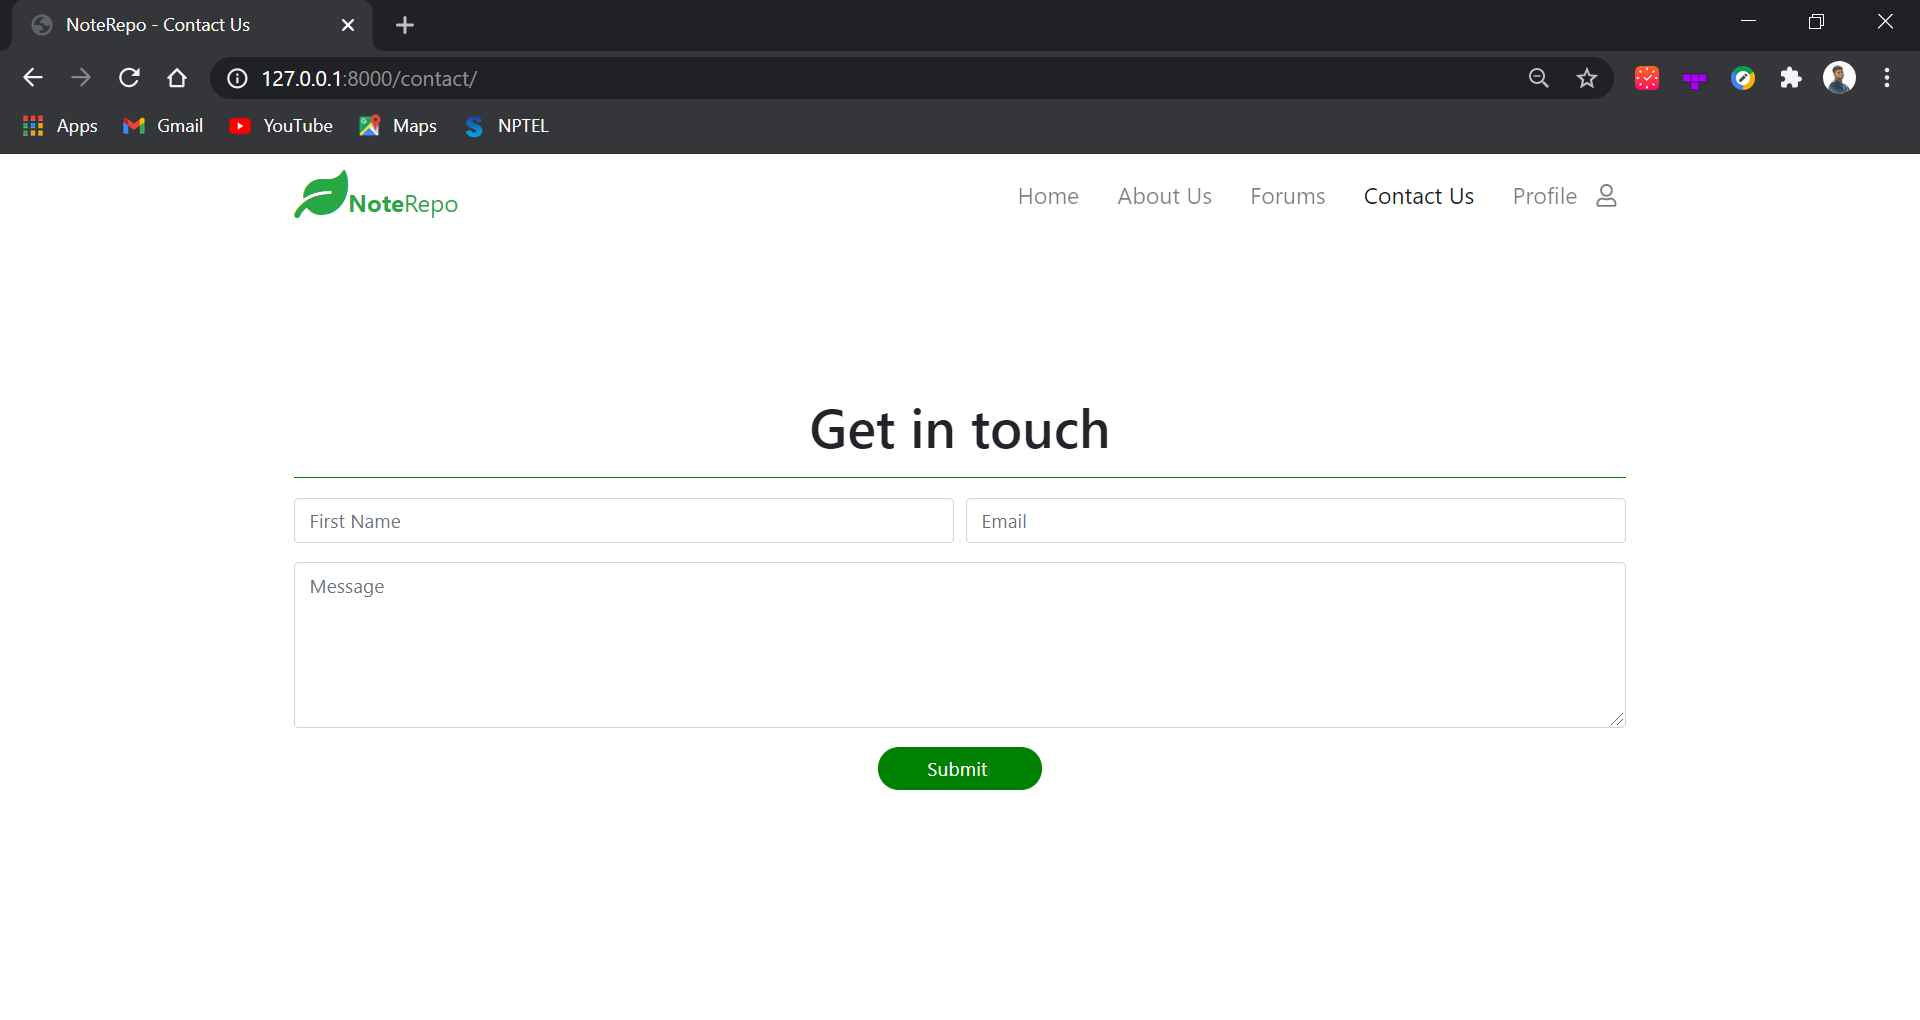
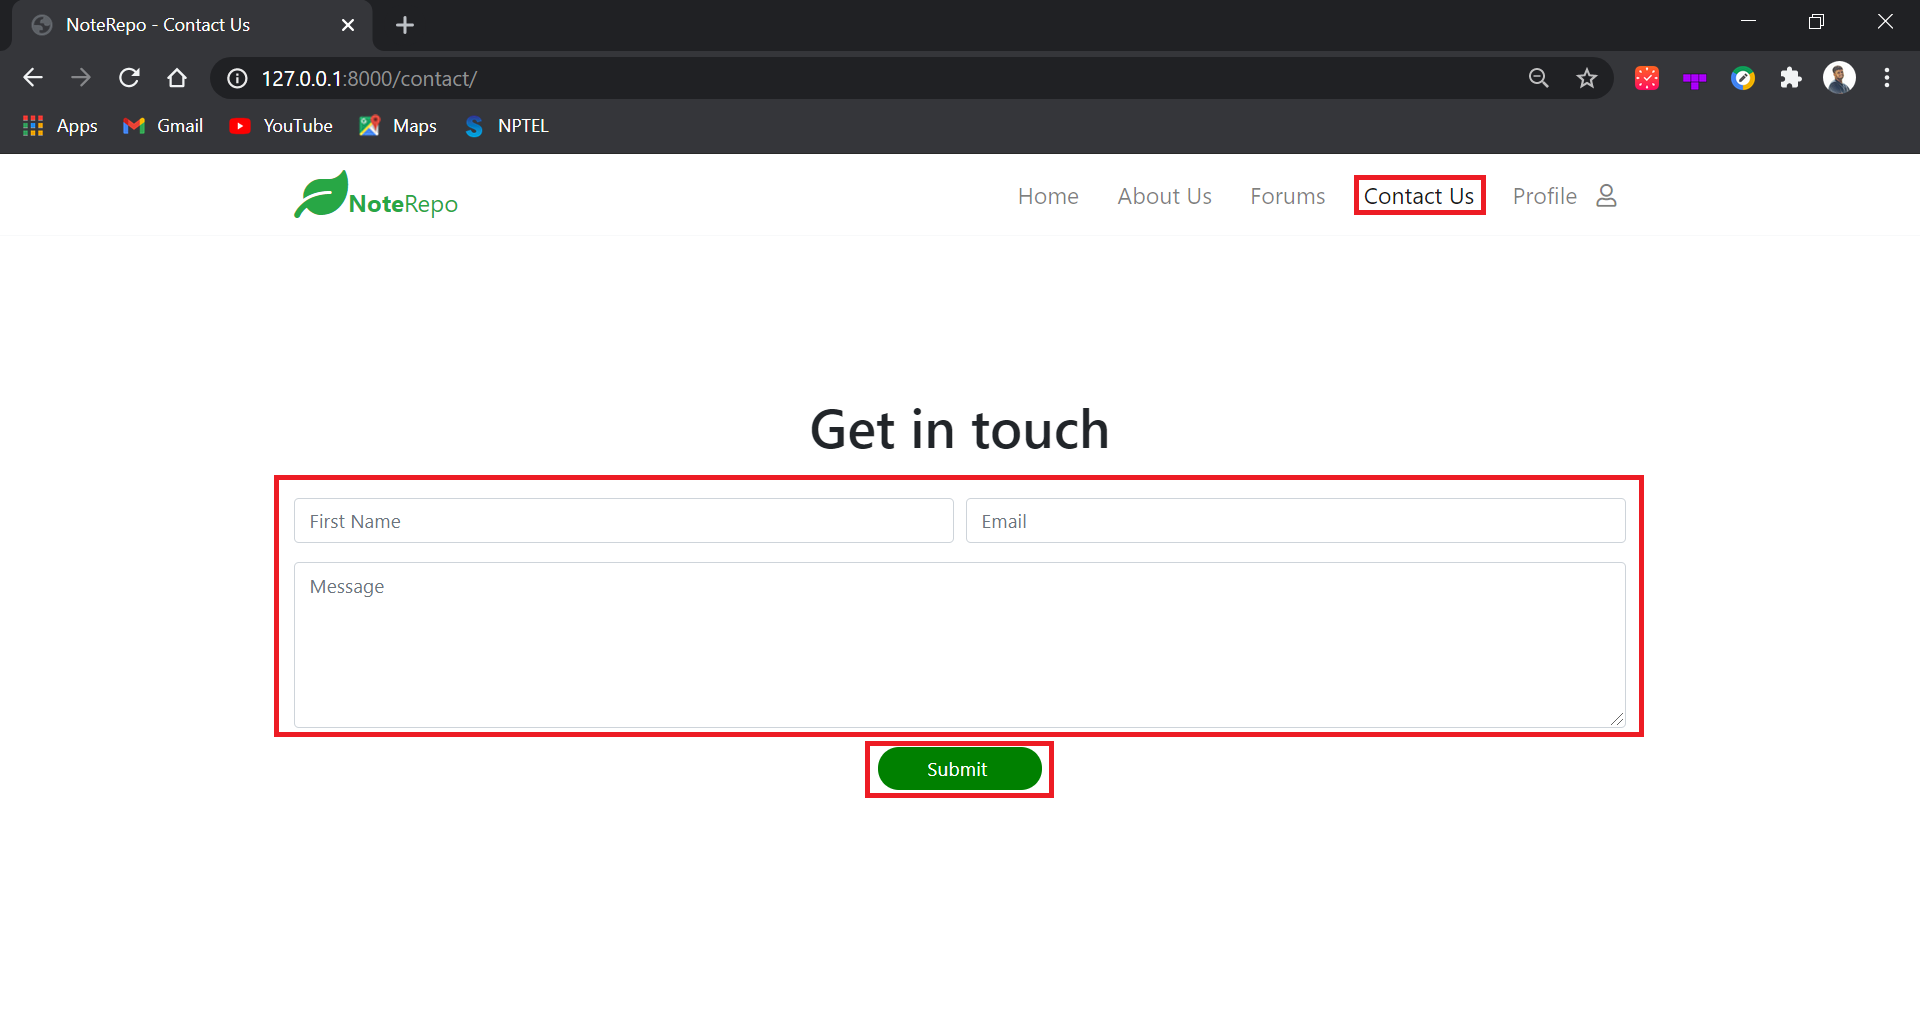
updated readme with contact and request form

Changed region(s): [[0.125, 0.699, 0.875, 0.7902], [0.125, 0.4559, 0.875, 0.4863], [0.6875, 0.152, 0.7812, 0.2127]]

diff --git a/README.md b/README.md
@@ -315,8 +315,14 @@ Once logged in, the landing page will the first thing you will see. This is the 
 <br>
 <li>Contact Us - To send us a message</li>
 <br>
-  
-**```This Feature is currently under Development```**
+
+**Use this form to contact us.**
+<br>
+**Submit details like you name, email and a message for us to get back to you**
+<br>
+
+<img src="media\ReadMe Screenshots\request and contact\ContactUs.png">
+
 <br>
 <br>
 <li>Profile - Takes you to the profile section</li>
@@ -345,6 +351,27 @@ Once logged in, the landing page will the first thing you will see. This is the 
 <br>
 <br>
 </ul>
+<br>
+<br>
+
+**Request Button**
+<br>
+<br>
+
+**You can request for books and other resources through the request button from either of the three resource pages**
+
+1. Click on the request button.
+
+<img src="media\ReadMe Screenshots\request and contact\Requestbutton.png">
+<br>
+<br>
+
+2. Fill up the form with necessary information and wait for us to get back.
+
+<img src="media\ReadMe Screenshots\request and contact\RequestForm.png">
+<br>
+<br>
+
 
 **You can View and Download any of the listed books by clicking on ```Download```. The links will take you to Google PDF Links and all options provided by Google PDF viewer will be available (requires you to login to you Google account)**
 
